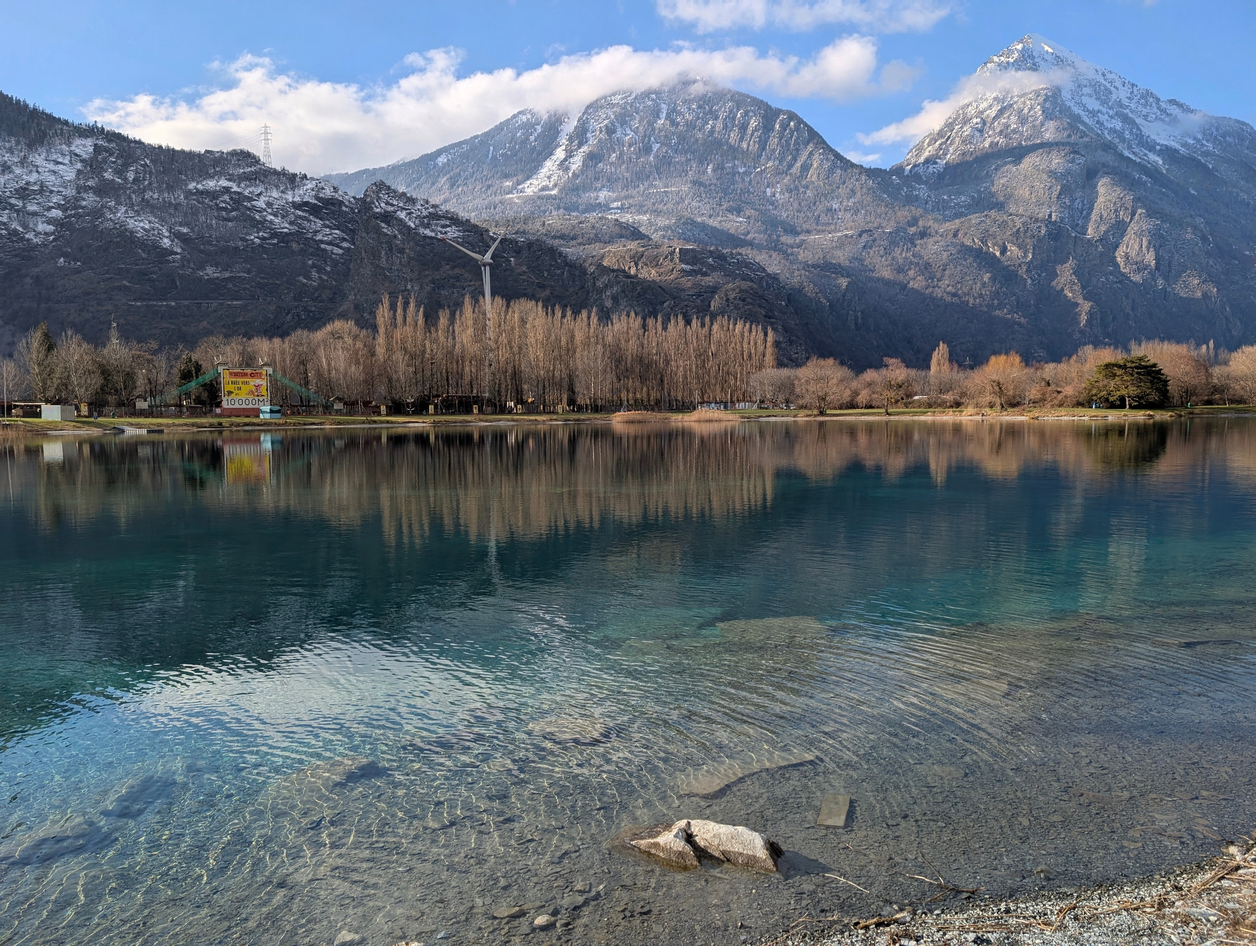
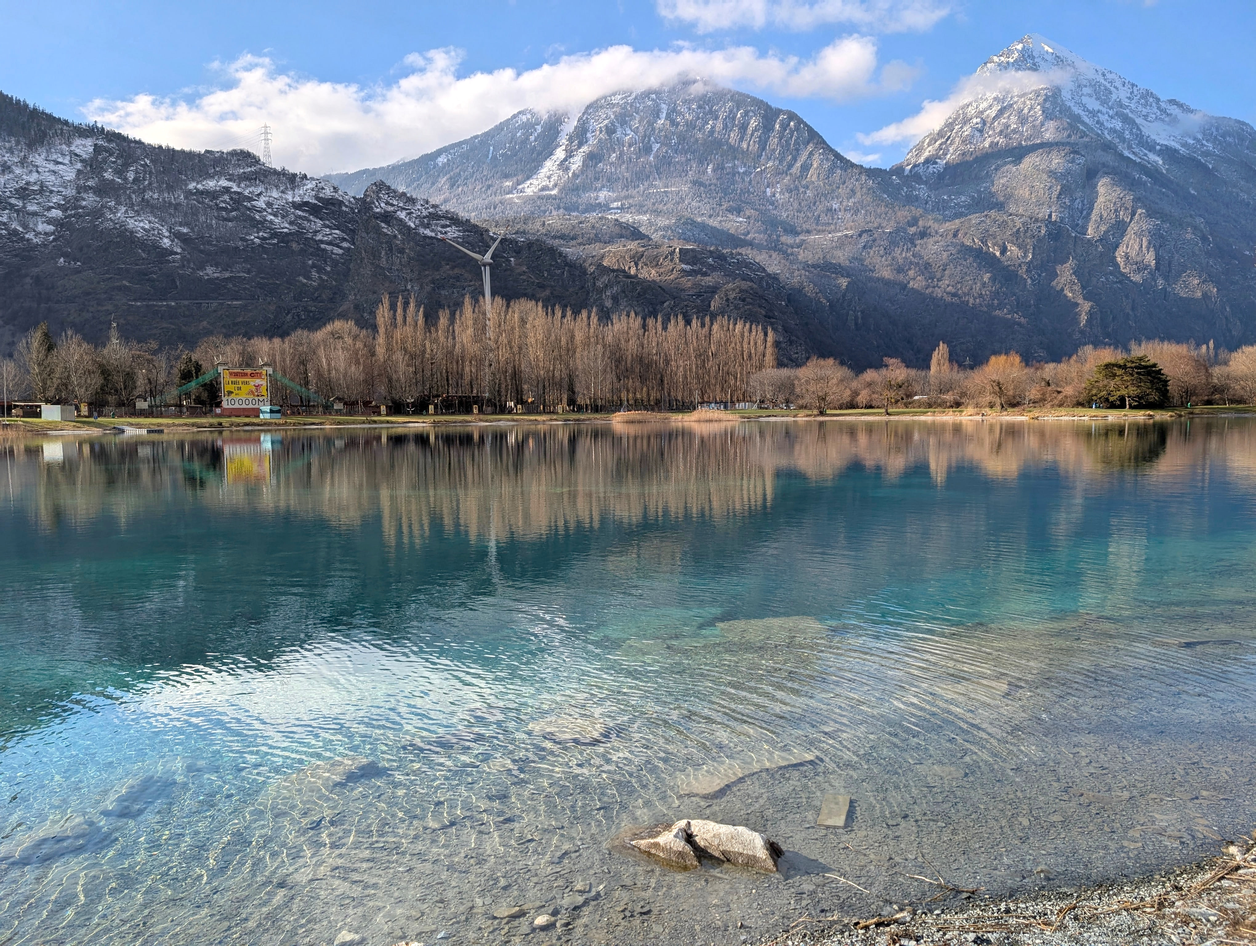
feat(hero): brighter lake so the ripples show through the veil
The hero photo is lifted (exposure x1.08 overall; on the water, through the
E1 mask feathered by 40 px: exposure x1.45, shadows raised, a touch more
saturation) and the dark scrim is lighter: on wide screens it pools behind
the text column instead of covering the whole lake, so the wind ripples and
the pointer rings of the WebGL surface can be seen. The lead keeps a
contrast of 5:1 or more on 90 % of its background at 375, 768, 1024 and
1440 px (measured with the text hidden). Credits and visual baselines
updated.

Claude-Session: https://claude.ai/code/session_015BPLWQPTJWwNZtSYTbWzW6

diff --git a/src/assets/images/CREDITS.md b/src/assets/images/CREDITS.md
@@ -6,7 +6,7 @@
 
 | Fichier | Source | Auteur / outil | Traitement |
 |---|---|---|---|
-| `hero/rosel.jpg` (4080×3072) | `original/rosel_2.jpg` (lac du Rosel, Martigny ; original de l'ancien `rosel-2400.jpg`) | Nicholas Jallan ; retouche Gemini | **Retouche de nettoyage** (Gate 3, D32) : **seuls les fils électriques** sont retirés ; l'éolienne, le pylône, le panneau « Western City », les toboggans et leurs reflets restent. Méthode : 4 tuiles du ciel et des montagnes retouchées à quasi pleine résolution (×1,23), recalées automatiquement, calées en couleur sur l'original et fondues ; l'eau, la rive et le premier plan restent les pixels d'origine. Contrôle avant/après : `plans/refonte-la-descente/gates/gate-3/11-hero-retenu.jpg` |
+| `hero/rosel.jpg` (4080×3072) | `original/rosel_2.jpg` (lac du Rosel, Martigny ; original de l'ancien `rosel-2400.jpg`) | Nicholas Jallan ; retouche Gemini | **Retouche de nettoyage** (Gate 3, D32) : **seuls les fils électriques** sont retirés ; l'éolienne, le pylône, le panneau « Western City », les toboggans et leurs reflets restent. Méthode : 4 tuiles du ciel et des montagnes retouchées à quasi pleine résolution (×1,23), recalées automatiquement, calées en couleur sur l'original et fondues ; l'eau, la rive et le premier plan restent les pixels d'origine. Contrôle avant/après : `plans/refonte-la-descente/gates/gate-3/11-hero-retenu.jpg` ; **éclaircie** (02.10.2026) pour que les ondulations d'E1 se voient sous le voile du texte : exposition ×1,08 sur toute la photo, et sur l'eau (masque d'E1 agrandi et flouté de 40 px) exposition ×1,45, ombres relevées (gamma 0,85) et saturation ×1,08, en lumière linéaire. |
 | `places/sion.jpg` (1600×2000) | `original/sion_les_iles_1.jpg` | Nicholas Jallan | Recadrage 4:5 (x 1750, largeur 2390) |
 | `places/rosel.jpg` (1600×2000) | `original/rosel_3.jpg` | Nicholas Jallan ; retouche Gemini | Recadrage 4:5 (x 1780, y 197, 2300×2875) ; **retouche de nettoyage** (D32) : seules les lignes électriques le long de la rive sont retirées, les pylônes restent (une tuile 1600×900, fondue sur la rive seulement) |
 | `places/leman.jpg` (1600×2000) | `original/leman_chateau_chillon.jpg` (château de Chillon) | Nicholas Jallan | Recadrage 4:5 (x 300, largeur 2458) |
